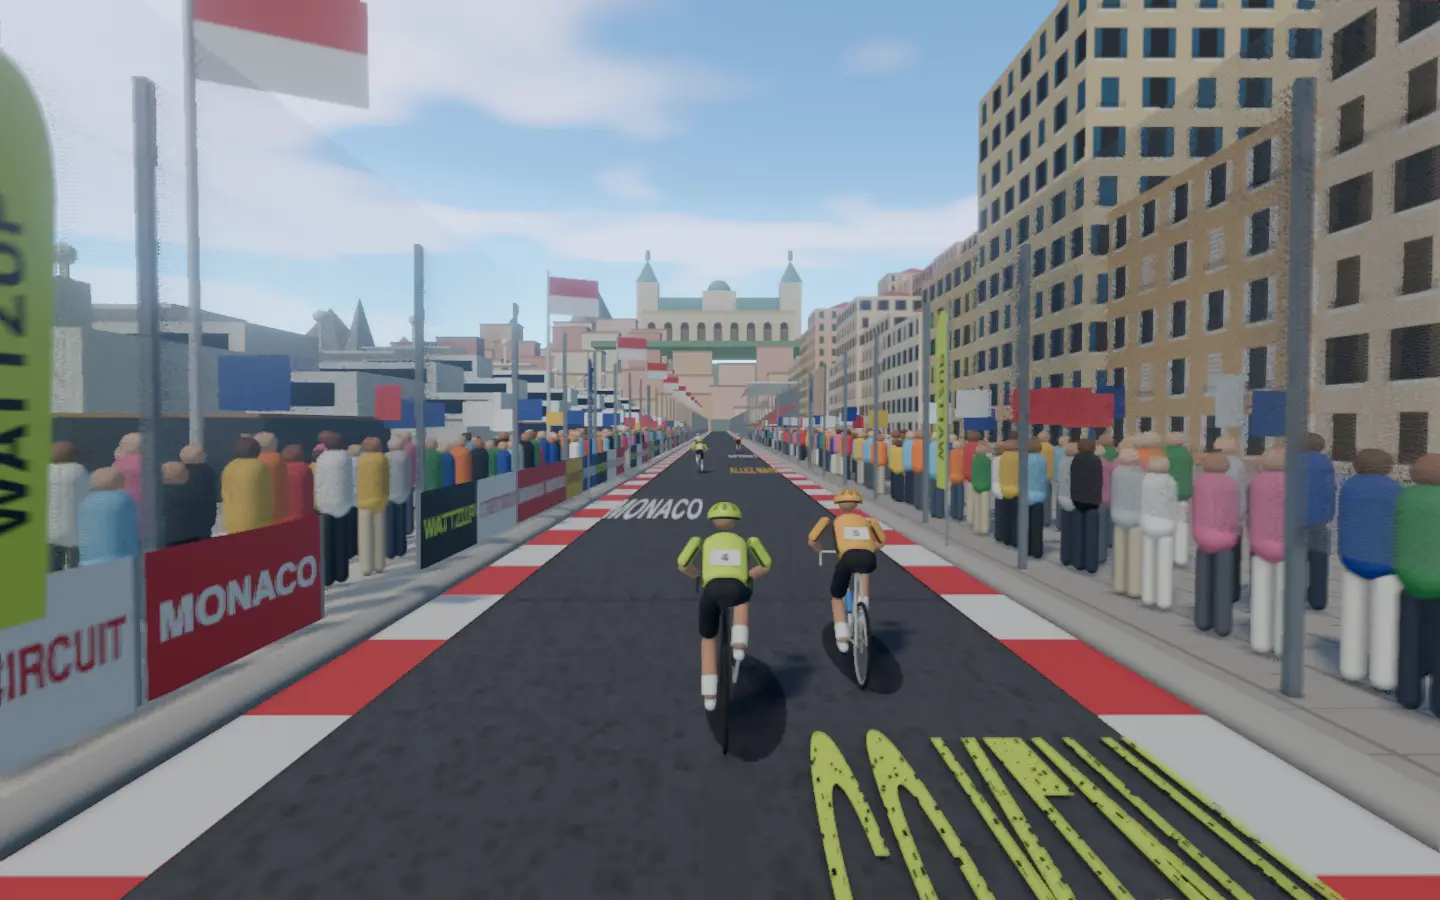
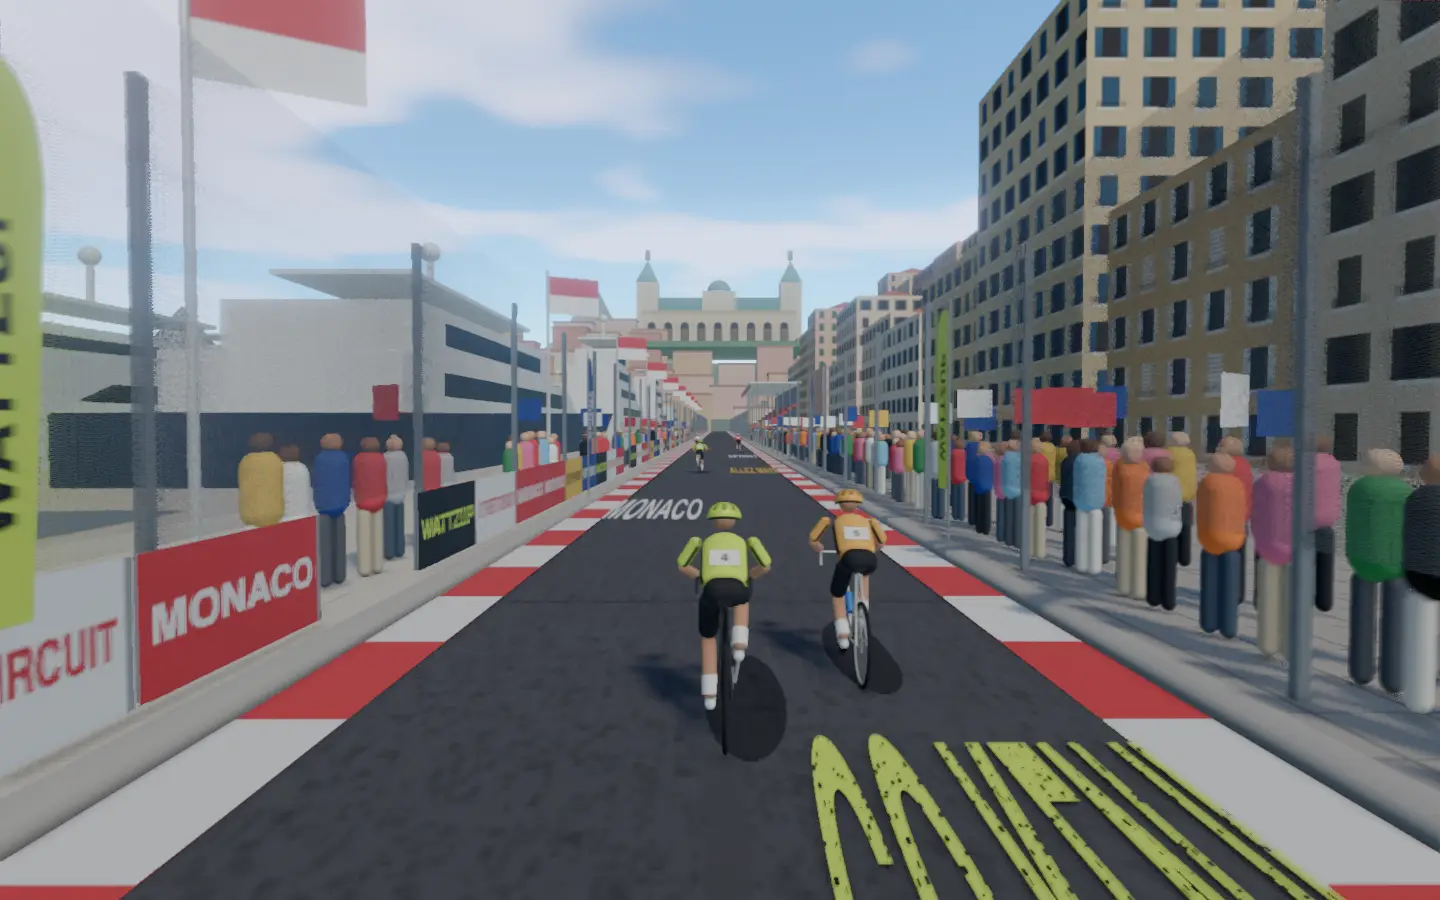
Moor Monaco's superyachts side-on and light them from the harbour

diff --git a/frontend/projects/wattzup/src/app/core/world-monaco.ts b/frontend/projects/wattzup/src/app/core/world-monaco.ts
@@ -15,11 +15,13 @@ import {
   ConeGeometry,
   CylinderGeometry,
   DoubleSide,
+  ExtrudeGeometry,
   Group,
   Mesh,
   MeshStandardMaterial,
   PlaneGeometry,
   RepeatWrapping,
+  Shape,
   SphereGeometry,
   type Texture,
 } from 'three/webgpu';
@@ -158,6 +160,8 @@ export class MonacoStreet implements SceneStreet {
       flags: this.flagMaterials,
       flagShare: 0.2,
       seeds: [6011, 6017],
+      // On the quay a single loose row, so the harbour shows between the fans.
+      skip: (side, offset, x) => side < 0 && (Math.abs(x) > CROWD_NEAR + 0.6 || offset % 9 < 3),
     });
     this.fans = new Figures(this.group, disposables, 900, FANS, 6021);
     this.group.add(this.horizon, this.harbour);
@@ -317,67 +321,109 @@ export class MonacoStreet implements SceneStreet {
   }
 
   /**
-   * The superyachts moored stern-to along the quay, bows out into the harbour: long hulls in
-   * white or navy, three or four decks stepping back above them with their dark glass, the
-   * flybridge, the mast and its radar, and a second row moored further out.
+   * The superyachts moored along the quay in three rows, side-on to the track so their long
+   * profiles read: sleek hulls in white, navy or graphite with raked bows, two to four white
+   * decks stepping back above them with sloping fronts and bands of dark glass, the hardtop,
+   * the mast and its radar dome.
    */
   private addYachts(): void {
     const random = seeded(6101);
-    for (let offset = 6, k = 0; offset < LOOP; offset += 16 + random() * 10, k++) {
-      for (const row of [0, 1]) {
-        if (row === 1 && random() < 0.4) continue;
-        const length = 28 + random() * 34;
-        const yacht = this.yacht(k * 2 + row, length, random);
-        // Bow out: the yacht's length runs along -x from the stern at the quay.
-        yacht.rotation.y = Math.PI / 2;
+    for (const [row, out, gap] of [
+      [0, QUAY + 1, 5],
+      [1, QUAY + 24, 12],
+      [2, QUAY + 52, 20],
+    ] as const) {
+      for (let offset = row * 11, k = 0; offset < LOOP - 20; k++) {
+        const length = 30 + random() * 36;
+        const yacht = this.yacht(k + row * 3, length, random);
         const holder = new Group();
         holder.add(yacht);
         this.group.add(holder);
-        const stern = QUAY + 2 + row * 70;
-        this.props.push({
-          mesh: holder,
-          offset: offset + row * 9,
-          x: -(stern + length / 2),
-        });
+        const beam = Math.max(6, length * 0.18);
+        this.props.push({ mesh: holder, offset: offset + length / 2, x: -(out + beam / 2) });
+        offset += length + gap + random() * gap;
       }
     }
   }
 
-  /** One superyacht, `length` long, its stern at +z, bow at -z. */
+  /** One superyacht, `length` long, its stern at +z toward the rider and its bow at -z. */
   private yacht(k: number, length: number, random: () => number): Group {
-    const hullColour = HULLS[k % HULLS.length]!;
-    const b = new BoxBuilder();
-    const hull = this.material({ color: hullColour, roughness: 0.35, metalness: 0.2 });
-    const white = this.material({ color: 0xf8f8f4, roughness: 0.35 });
-    const glass = this.material({ color: 0x1a2430, roughness: 0.1, metalness: 0.6 });
-    const teak = this.material({ color: 0xa87848, roughness: 0.7 });
-    const beam = Math.max(6, length * 0.19);
-    // The hull, in three stepped pieces narrowing toward the bow.
-    b.box(hull, [beam, 3.4, length * 0.62], [0, 0.5, length * 0.19]);
-    b.box(hull, [beam * 0.82, 3.2, length * 0.22], [0, 0.6, -length * 0.23]);
-    b.box(hull, [beam * 0.5, 3, length * 0.14], [0, 0.7, -length * 0.41]);
-    b.box(teak, [beam * 0.95, 0.12, length * 0.15], [0, 2.26, length * 0.42]);
-    // The decks, stepping back.
+    const g = new Group();
+    const hull = this.material({
+      color: HULLS[k % HULLS.length]!,
+      roughness: 0.3,
+      metalness: 0.25,
+    });
+    const white = this.material({ color: 0xfbfbf8, roughness: 0.3 });
+    const glass = this.material({ color: 0x141c26, roughness: 0.08, metalness: 0.7 });
+    const beam = Math.max(6, length * 0.18);
+    const L = length;
+    // A side profile, `x` along the yacht (stern +), extruded `width` across and stood upright.
+    const prism = (
+      points: readonly (readonly [number, number])[],
+      width: number,
+      material: MeshStandardMaterial,
+    ) => {
+      const shape = new Shape();
+      shape.moveTo(points[0]![0], points[0]![1]);
+      for (const [x, y] of points.slice(1)) shape.lineTo(x, y);
+      shape.closePath();
+      const geometry = new ExtrudeGeometry(shape, { depth: width, bevelEnabled: false });
+      geometry.translate(0, 0, -width / 2);
+      geometry.rotateY(-Math.PI / 2);
+      this.disposables.push(geometry);
+      const mesh = new Mesh(geometry, material);
+      mesh.castShadow = true;
+      g.add(mesh);
+      return mesh;
+    };
+    // The hull: a square stern, the sheer rising to a raked bow.
+    prism(
+      [
+        [L / 2, -1.2],
+        [L / 2, 2.4],
+        [-L / 2, 3.4],
+        [-L / 2 + L * 0.2, -1.2],
+      ],
+      beam,
+      hull,
+    );
+    // The decks, stepping back, each with its sloping front and its band of glass.
     const decks = 2 + Math.floor(random() * 3);
-    let y = 2.2;
-    let deck = length * 0.6;
-    let at = length * 0.08;
+    let y = 2.5;
+    let aft = L / 2 - L * 0.07;
+    let span = L * 0.64;
     for (let d = 0; d < decks; d++) {
-      const width = beam * (0.9 - d * 0.08);
-      b.box(white, [width, 2.6, deck], [0, y + 1.3, at]);
-      b.box(glass, [width + 0.04, 1.2, deck * 0.92], [0, y + 1.4, at]);
-      y += 2.6;
-      deck *= 0.72;
-      at -= length * 0.04;
+      const width = beam * (0.88 - d * 0.1);
+      prism(
+        [
+          [aft, y],
+          [aft, y + 2.5],
+          [aft - span * 0.86, y + 2.5],
+          [aft - span, y],
+        ],
+        width,
+        white,
+      );
+      const band = new Mesh(this.unitBox(), glass);
+      band.scale.set(width + 0.08, 1.1, span * 0.7);
+      band.position.set(0, y + 1.35, aft - span * 0.47);
+      g.add(band);
+      y += 2.5;
+      aft -= L * 0.05;
+      span *= 0.72;
     }
-    // The flybridge's hardtop, the mast and the radar dome.
-    b.box(white, [beam * 0.7, 0.25, deck * 1.1], [0, y + 0.9, at]);
-    b.box(white, [0.3, 3.4, 0.3], [0, y + 2.5, at]);
-    const g = b.build(this.disposables);
+    // The hardtop over the flybridge, the mast and the radar dome.
+    const top = new Mesh(this.unitBox(), white);
+    top.scale.set(beam * 0.6, 0.25, span * 1.1);
+    top.position.set(0, y + 1.6, aft - span * 0.5);
+    const mast = new Mesh(this.unitBox(), white);
+    mast.scale.set(0.3, 3.2, 0.3);
+    mast.position.set(0, y + 3.2, aft - span * 0.5);
     const radar = new Mesh(new SphereGeometry(0.6, 12, 8), white);
     this.disposables.push(radar.geometry);
-    radar.position.set(0, y + 4.3, at);
-    g.add(radar);
+    radar.position.set(0, y + 5, aft - span * 0.5);
+    g.add(top, mast, radar);
     return g;
   }
 

diff --git a/frontend/projects/wattzup/src/app/core/world-renderer.ts b/frontend/projects/wattzup/src/app/core/world-renderer.ts
@@ -936,8 +936,9 @@ const LOOKS: Record<WorldId, Look> = {
     light: { sun: 3.1, fill: 1.6, colour: 0xfff4e4 },
     fogRange: [1200, 14000],
   },
-  // Race weekend on the Riviera: a clear deep blue sky, the sun high behind the rider, the sea
-  // glittering and the far mountains blue-grey in the heat haze.
+  // Race weekend on the Riviera: a clear deep blue sky, the sun high behind the rider over the
+  // harbour so the yachts shine white, the sea glittering and the far mountains blue-grey in the
+  // heat haze.
   monaco: {
     sky: 0x5a9ad8,
     fog: 0xc8dcea,
@@ -948,7 +949,7 @@ const LOOKS: Record<WorldId, Look> = {
     haze: false,
     turbidity: 2.2,
     rayleigh: 1.2,
-    azimuth: -150,
+    azimuth: 150,
     light: { sun: 3.2, fill: 1.2, colour: 0xfff2dc },
     fogRange: [300, 2400],
   },

diff --git a/docs/detailed-designs/world-ride/draw-class-scene/README.md b/docs/detailed-designs/world-ride/draw-class-scene/README.md
@@ -441,8 +441,8 @@ None.
   - ahead Teide's cone with its pale summit and Pico Viejo's dark shoulder, the cable car's cabins climbing on the ride's clock, the caldera's walls, and the sea of clouds drifting with La Palma's peaks breaking through it, keeping their bearing.
 - **Monaco Street Circuit (`core/world-monaco.ts`).** For `monaco`, the harbour straight of the street circuit on race weekend, closed for the ride:
   - the track's dark asphalt edged by red and white kerbs painted in metre blocks, fans' names and cries painted on it every 17 m (MONACO, ALLEZ MAYA, FLAT OUT and more); race barriers hung with the ride's banners (MONACO, STREET CIRCUIT, WATTZUP, PORT HERCULE, SPRINT, MONTE-CARLO), tall steel-mesh catch fences behind them leaning in at the top on posts every 5 m, the kit's feather flags every 18 m along both, and two banners over the track (MONACO · STREET CIRCUIT, WATTZUP · NON-STOP SPRINTING);
-  - fans along both barriers in summer shirts and team colours, a fifth waving flags (the shared crowd);
-  - on the left the quay's pale limestone flags out to its edge 11 m off the crown, the flags of Monaco, red over white, on tall poles every 24 m, and the harbour's deep blue water glittering out to the horizon; superyachts moored stern-to along the quay every 16 to 26 m, bows out, 28 to 62 m long, white, navy or graphite hulls stepping in toward the bow, two to four white decks stepping back above them with their dark glass, a hardtop, mast and radar dome, and a second row moored 70 m further out;
+  - fans along both barriers in summer shirts and team colours, a fifth waving flags (the shared crowd), packed deep on the right and a single loose row on the quay;
+  - on the left the quay's pale limestone flags out to its edge 11 m off the crown, the flags of Monaco, red over white, on tall poles every 24 m, and the harbour's deep blue water glittering out to the horizon; superyachts moored side-on along the quay in three rows (alongside it, then 24 m and 52 m out), 30 to 66 m long: hulls in white, navy or graphite with a square stern and the sheer rising to a raked bow, two to four white decks stepping back above them with sloping fronts and bands of dark glass, the hardtop, mast and radar dome; the fans on the quay stand in a single loose row so the yachts show between them;
   - on the right two grandstands, 70 m long, nine tiers of red seats rising behind the fence, packed with nine hundred fans (the kit's figures) bouncing as the riders pass, under a white roof with MONACO · STREET CIRCUIT · WATTZUP along its fascia; behind them, 24 m off the crown, the town: pastel blocks of five to ten floors in ochre, pink, cream and apricot, shuttered windows and balconies up their fronts under terracotta roofs, and a second row up the hill behind;
   - 280 m ahead the town climbing its green hill in terraces of pastel blocks, the Casino of Monte-Carlo on top: its cream front of tall arched windows between columns, two square towers under copper caps and lanterns, the clock and its copper dome in the middle, its gardens falling away in front; the bare limestone mountains behind, all hazed by hand. Everything along the track is hidden past it.
 

diff --git a/docs/class-worlds.md b/docs/class-worlds.md
@@ -46,7 +46,7 @@ Every class in `frontend/public/classes.json`, with its World Ride scene. Render
 | 40 | Give Me One Minute | Times Square New Year's Eve | 80% | Broadway through Times Square glows on the last night of the year, its towers wrapped in billboards and countdown screens above a party packed behind police barriers, confetti drifting down toward One Times Square and the crystal ball on its pole. The two-minute warm-up rolls in under the screens, each one-minute effort races the countdown between the billboards toward the ball drop, and the recoveries coast through the confetti with the glowing 2027 still ahead. |
 | 41 | Drag Race | Daytona Beach Sand | 74% | Hard-packed sand where stock cars once raced; drag-race along the tide line. |
 | 42 | Max Effort Up & Overs | San Francisco Hills (concept) |  | Steep streets and Lombard's crooked bends; up and over each crest as cable cars clang. |
-| 43 | Non-Stop Sprinting | Monaco Street Circuit | 70% | Port Hercule glitters under a Riviera sun on race weekend, superyachts moored along the quay beside the catch fences and packed grandstands of the street circuit while the pastel town climbs its hill to the Casino. The five-minute warm-up rolls along the harbour front, each sprint from fifteen seconds to a minute and a half bursts between the red and white kerbs past the yachts, and the recoveries spin easy with the Casino's copper towers ahead. |
+| 43 | Non-Stop Sprinting | Monaco Street Circuit | 73% | Port Hercule glitters under a Riviera sun on race weekend, superyachts moored along the quay beside the catch fences and packed grandstands of the street circuit while the pastel town climbs its hill to the Casino. The five-minute warm-up rolls along the harbour front, each sprint from fifteen seconds to a minute and a half bursts between the red and white kerbs past the yachts, and the recoveries spin easy with the Casino's copper towers ahead. |
 | 44 | In & Out of the Saddle Hill Climb Reps | Mont Ventoux | 70% | Bare white limestone in the mistral; stand and sit up the Giant of Provence. |
 | 45 | Ride to the Beat | Mardi Gras, New Orleans (concept) |  | Brass bands and bead-throwing floats on St. Charles Avenue; pedal to the parade's beat. |
 | 46 | Intervals to the Beat | Ibiza Sunset Strip (concept) |  | Beach clubs and DJ sets as the sun sinks; intervals drop with the bass. |
